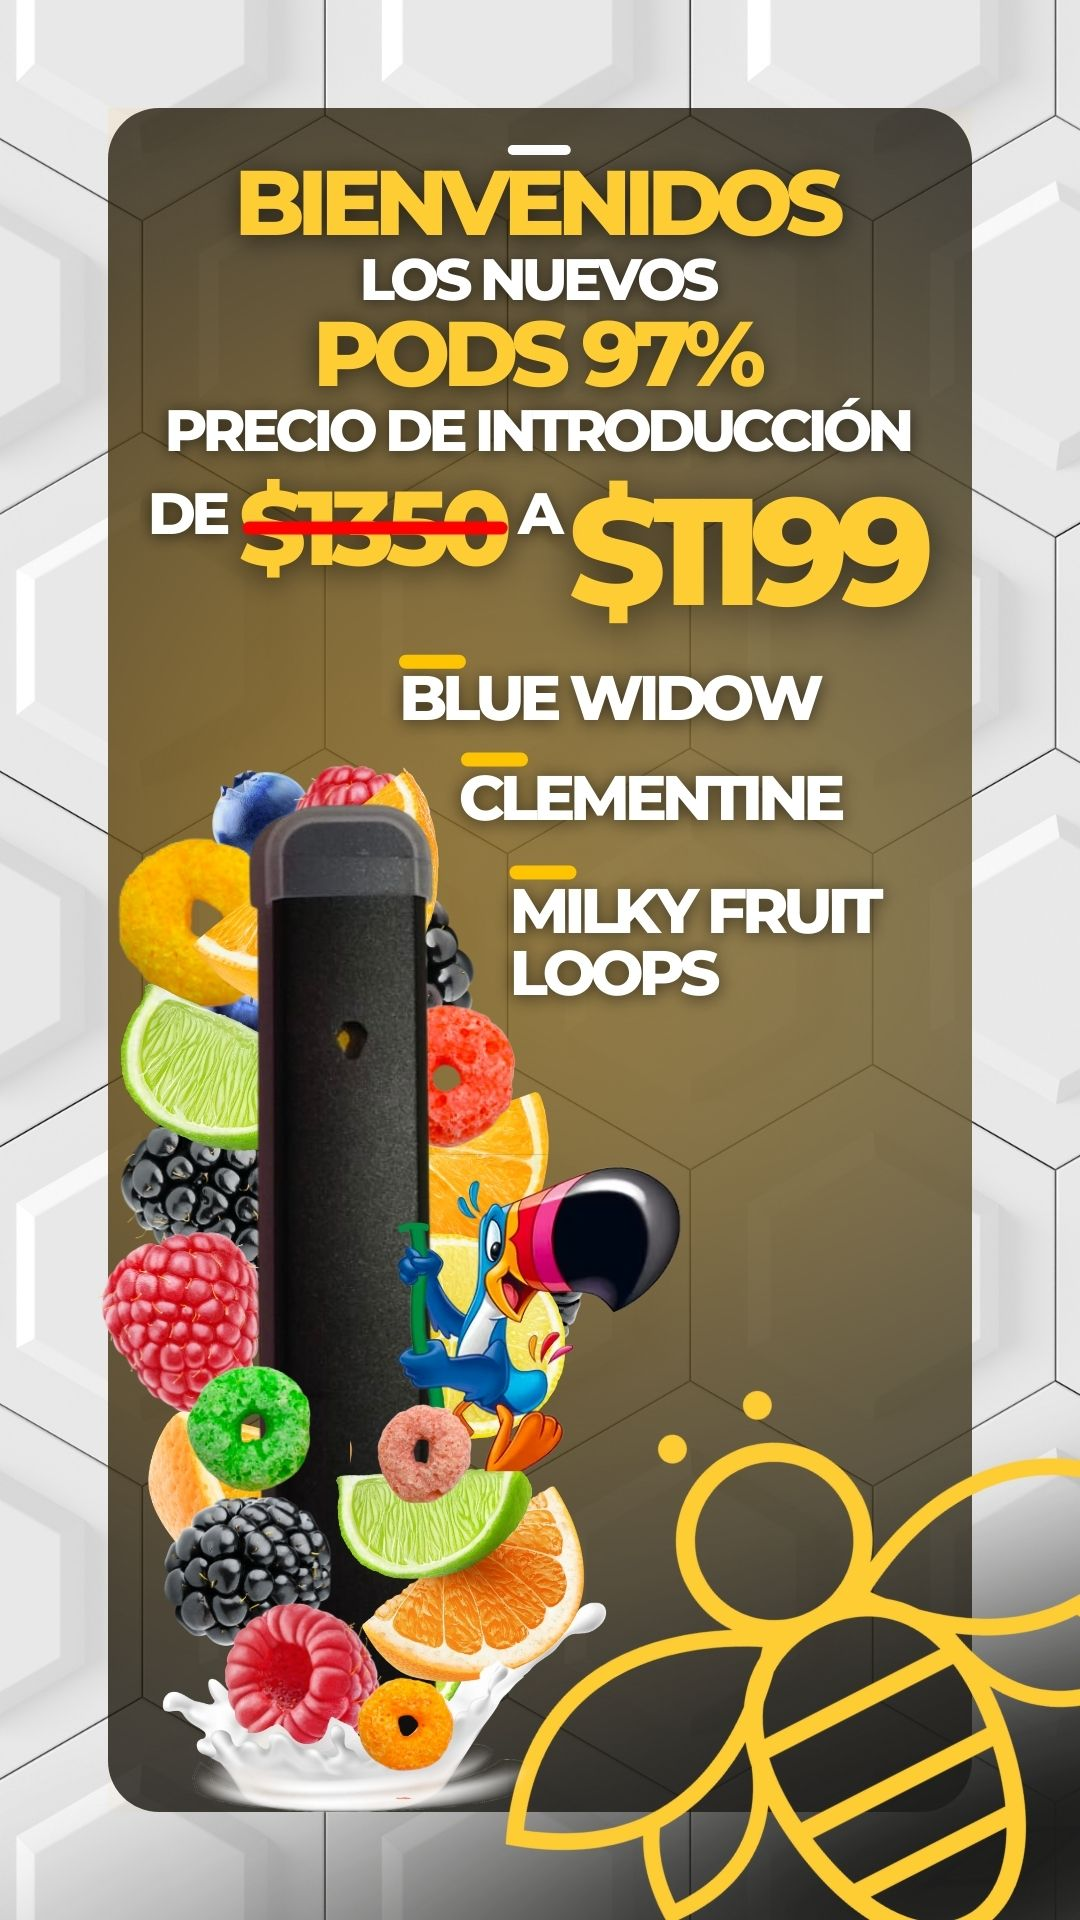
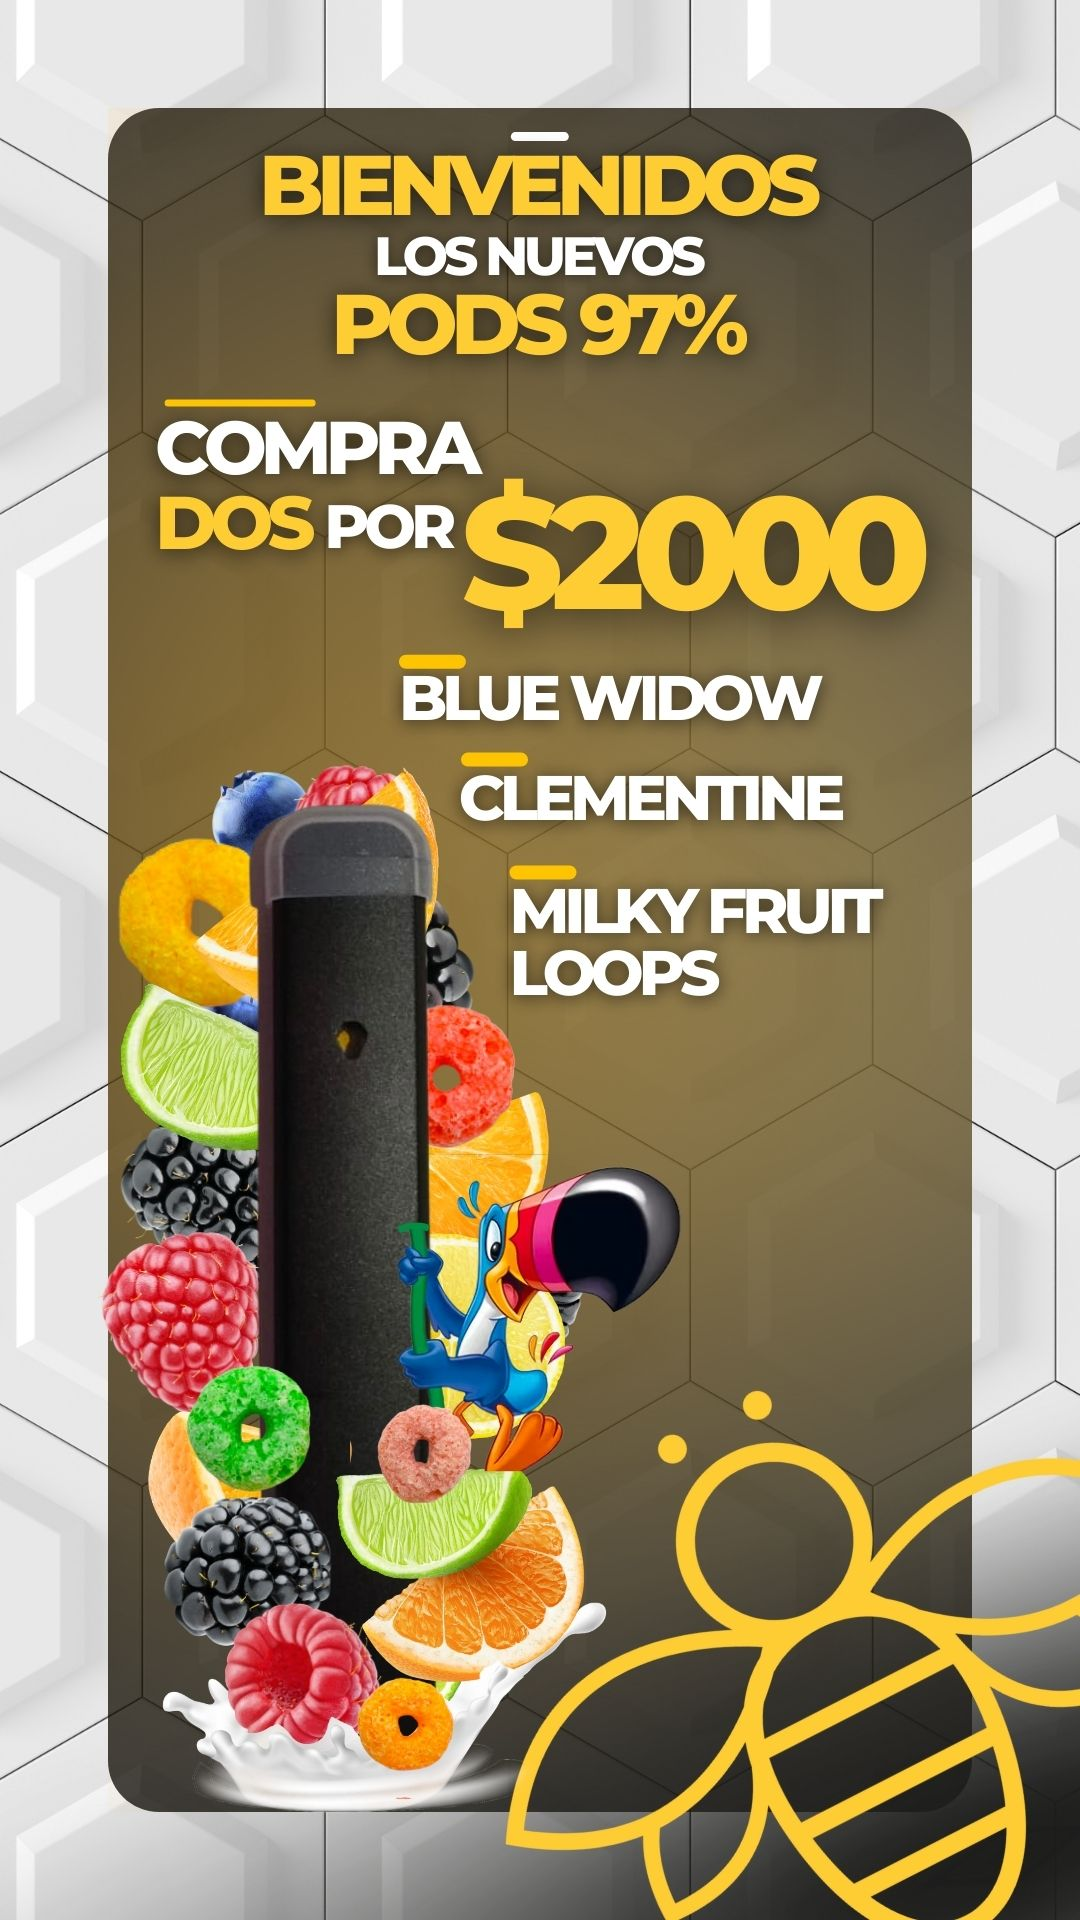
add

Changed region(s): [[0.1222, 0.0625, 0.8861, 0.3438]]

diff --git a/home.html b/home.html
@@ -82,13 +82,7 @@
 
             <article class="slide">
                 <div class="infoProducto">
-                    <img src="/media/ski.jpg" alt="Promo1" class="imagenPromo"> <!--dejar esta promo siempre-->
-                </div>
-            </article>  
-
-            <article class="slide">
-                <div class="infoProducto">
-                    <img src="/media/chef.jpg" alt="Promo1" class="imagenPromo"> <!--dejar esta promo siempre-->
+                    <img src="/media/medios.jpg" alt="Promo1" class="imagenPromo"> <!--dejar esta promo siempre-->
                 </div>
             </article>  
             
